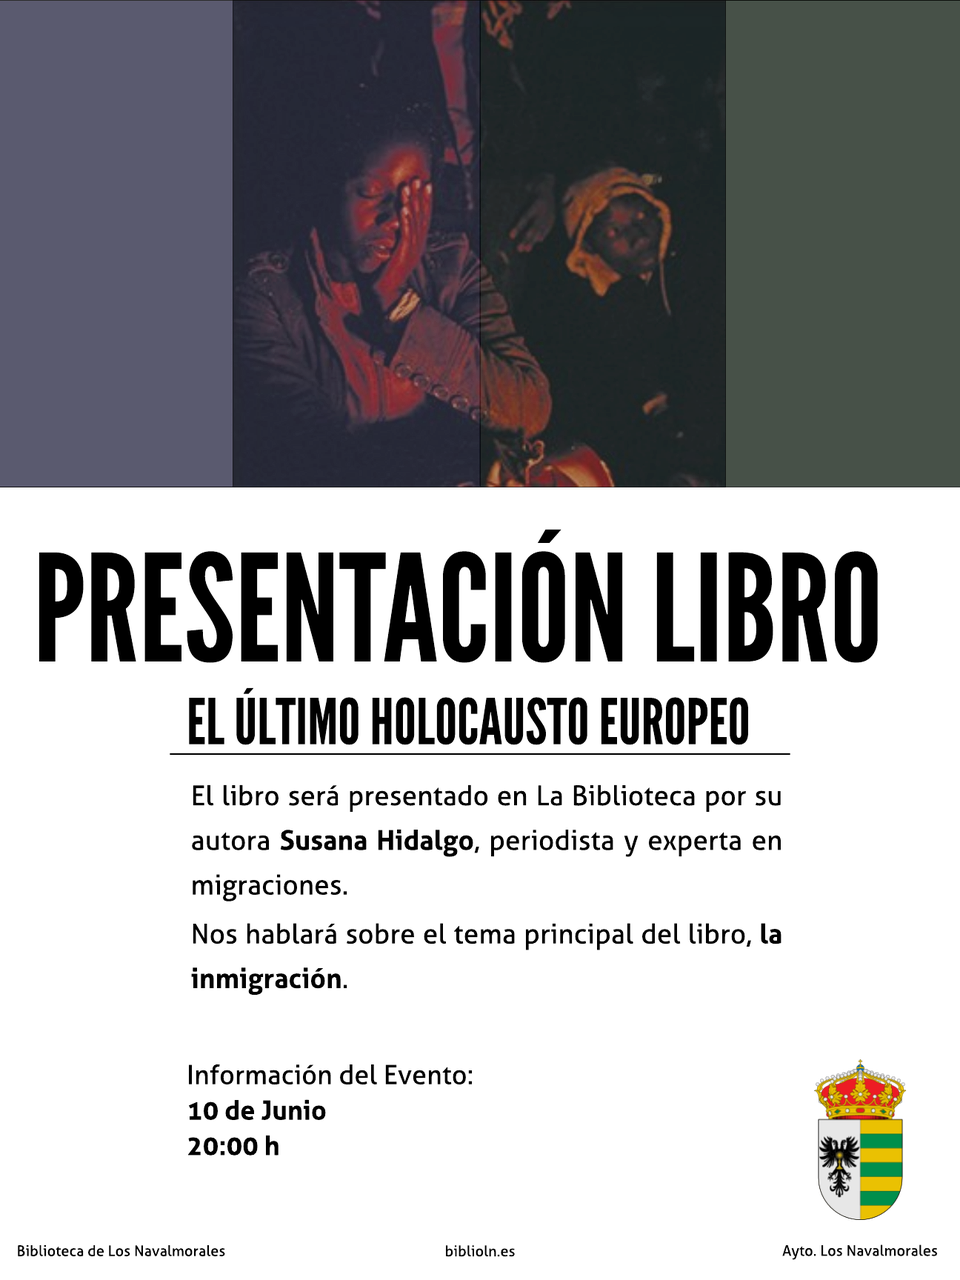
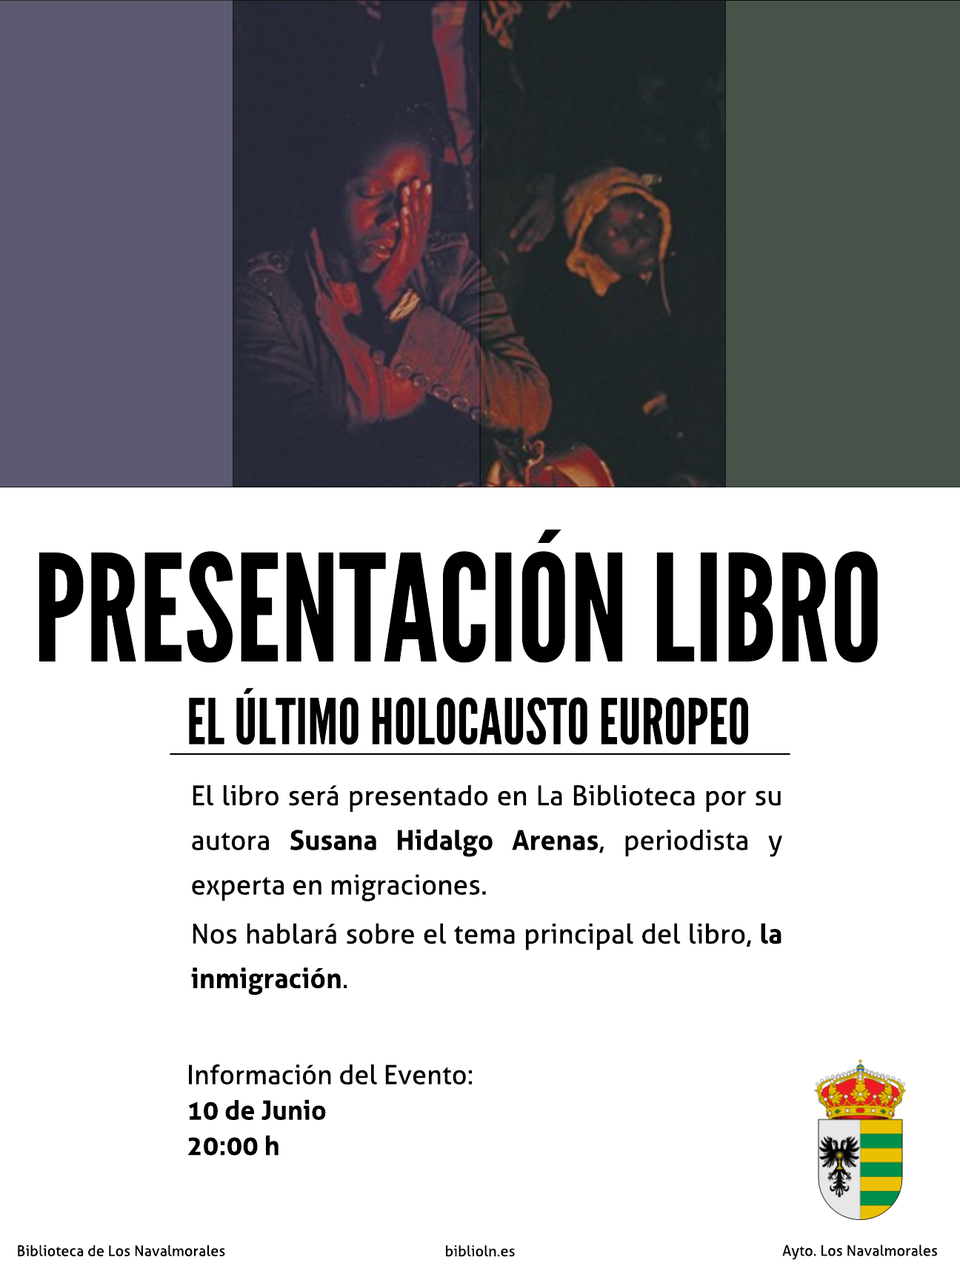
Nikola auto commit.
Source commit: 537aab59cc904bf30ec7c06cb67eb80e9744f2f7
Nikola version: 7.7.2

Changed region(s): [[0.1875, 0.625, 0.8125, 0.7188]]

diff --git a/index.html b/index.html
@@ -96,17 +96,17 @@
 </div>
     </header><div class="e-content entry-content">
     <div>
-<p>El libro será presentado en La Biblioteca por su autora <strong>Susana Hidalgo</strong>, periodista y experta en migraciones.</p>
+<p>El libro será presentado en La Biblioteca por su autora <strong>Susana Hidalgo Arenas</strong>, periodista y experta en migraciones.</p>
 <p>El evento tendrá lugar el 10 de Junio a las 20:00 h en <a class="reference external" href="http://biblioln.es/stories/la-biblioteca-de-los-navalmorales/contacto.html">La Biblioteca</a>.</p>
 
-<div id="slides_88ac46d941d74d63b15ff50db49eacd1" class="carousel slide">
-    <ol class="carousel-indicators"><li data-target="#slides_88ac46d941d74d63b15ff50db49eacd1" data-slide-to="0" class="active">
+<div id="slides_81abc55860104e5dbe0b7ee20d02d9b9" class="carousel slide">
+    <ol class="carousel-indicators"><li data-target="#slides_81abc55860104e5dbe0b7ee20d02d9b9" data-slide-to="0" class="active">
     </li></ol>
 <div class="carousel-inner">
                 <div class="item active"><img src="2016/05/el_ultimo_holocausto_europeo.png" alt="" style="margin: 0 auto 0 auto;"></div>
     </div>
-    <a class="left carousel-control" href="posts/2016/05/el-ultimo-holocausto-europeo.html#slides_88ac46d941d74d63b15ff50db49eacd1" data-slide="prev"><span class="icon-prev"></span></a>
-    <a class="right carousel-control" href="posts/2016/05/el-ultimo-holocausto-europeo.html#slides_88ac46d941d74d63b15ff50db49eacd1" data-slide="next"><span class="icon-next"></span></a>
+    <a class="left carousel-control" href="posts/2016/05/el-ultimo-holocausto-europeo.html#slides_81abc55860104e5dbe0b7ee20d02d9b9" data-slide="prev"><span class="icon-prev"></span></a>
+    <a class="right carousel-control" href="posts/2016/05/el-ultimo-holocausto-europeo.html#slides_81abc55860104e5dbe0b7ee20d02d9b9" data-slide="next"><span class="icon-next"></span></a>
 </div>
 
 <p><a class="reference external" href="2016/05/el_ultimo_holocausto_europeo.pdf">El cartel en PDF</a>.</p>

diff --git a/posts/2016/05/el-ultimo-holocausto-europeo.html b/posts/2016/05/el-ultimo-holocausto-europeo.html
@@ -117,17 +117,17 @@
 
     </header><div class="e-content entry-content" itemprop="articleBody text">
     <div>
-<p>El libro será presentado en La Biblioteca por su autora <strong>Susana Hidalgo</strong>, periodista y experta en migraciones.</p>
+<p>El libro será presentado en La Biblioteca por su autora <strong>Susana Hidalgo Arenas</strong>, periodista y experta en migraciones.</p>
 <p>El evento tendrá lugar el 10 de Junio a las 20:00 h en <a class="reference external" href="http://biblioln.es/stories/la-biblioteca-de-los-navalmorales/contacto.html">La Biblioteca</a>.</p>
 
-<div id="slides_88ac46d941d74d63b15ff50db49eacd1" class="carousel slide">
-    <ol class="carousel-indicators"><li data-target="#slides_88ac46d941d74d63b15ff50db49eacd1" data-slide-to="0" class="active">
+<div id="slides_81abc55860104e5dbe0b7ee20d02d9b9" class="carousel slide">
+    <ol class="carousel-indicators"><li data-target="#slides_81abc55860104e5dbe0b7ee20d02d9b9" data-slide-to="0" class="active">
     </li></ol>
 <div class="carousel-inner">
                 <div class="item active"><img src="../../../2016/05/el_ultimo_holocausto_europeo.png" alt="" style="margin: 0 auto 0 auto;"></div>
     </div>
-    <a class="left carousel-control" href="el-ultimo-holocausto-europeo.html#slides_88ac46d941d74d63b15ff50db49eacd1" data-slide="prev"><span class="icon-prev"></span></a>
-    <a class="right carousel-control" href="el-ultimo-holocausto-europeo.html#slides_88ac46d941d74d63b15ff50db49eacd1" data-slide="next"><span class="icon-next"></span></a>
+    <a class="left carousel-control" href="el-ultimo-holocausto-europeo.html#slides_81abc55860104e5dbe0b7ee20d02d9b9" data-slide="prev"><span class="icon-prev"></span></a>
+    <a class="right carousel-control" href="el-ultimo-holocausto-europeo.html#slides_81abc55860104e5dbe0b7ee20d02d9b9" data-slide="next"><span class="icon-next"></span></a>
 </div>
 
 <p><a class="reference external" href="../../../2016/05/el_ultimo_holocausto_europeo.pdf">El cartel en PDF</a>.</p>

diff --git a/posts/2016/05/el-ultimo-holocausto-europeo.rst b/posts/2016/05/el-ultimo-holocausto-europeo.rst
@@ -4,7 +4,7 @@
 .. tags: Actividades
 .. description: Presentación del libro "El Último Holocausto Europeo"
 
-El libro será presentado en La Biblioteca por su autora **Susana Hidalgo**, periodista y experta en migraciones.
+El libro será presentado en La Biblioteca por su autora **Susana Hidalgo Arenas**, periodista y experta en migraciones.
 
 El evento tendrá lugar el 10 de Junio a las 20:00 h en `La Biblioteca`_.
 
